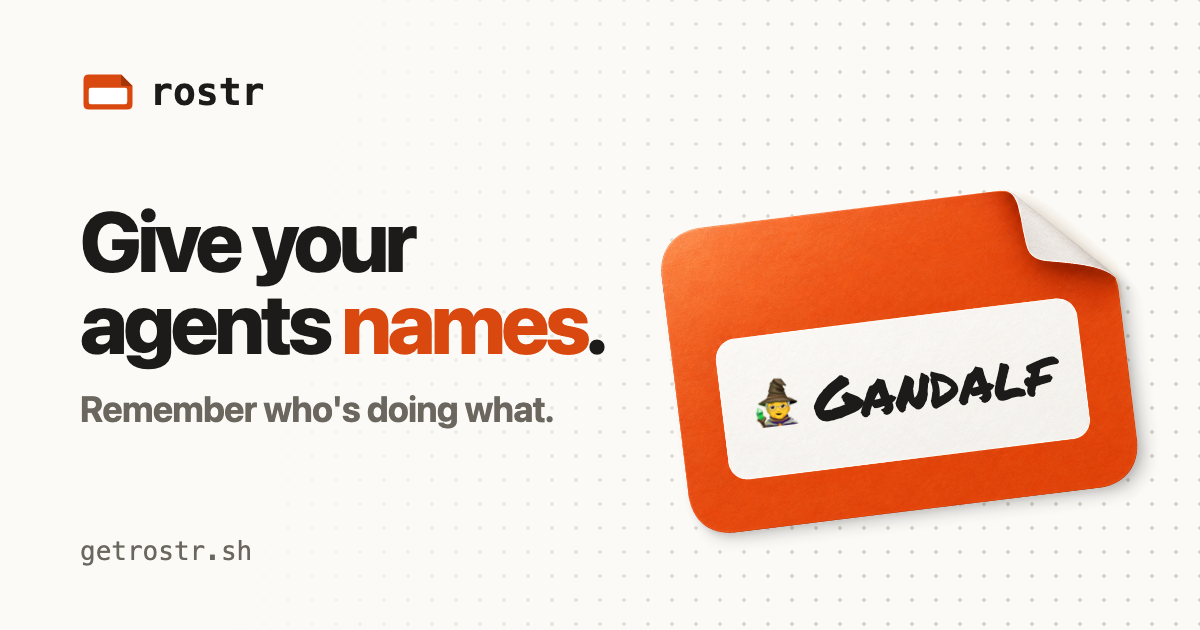
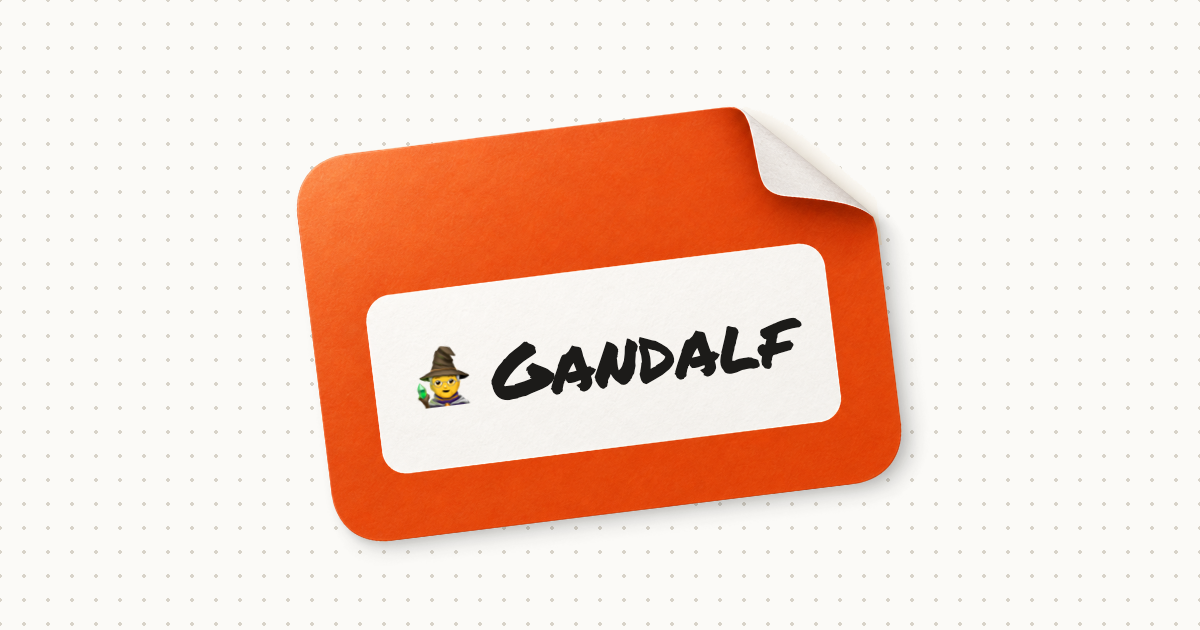
Link preview is just the Gandalf name tag on the dot grid

diff --git a/site/og/og.html b/site/og/og.html
@@ -9,44 +9,25 @@
     <link href="https://fonts.googleapis.com/css2?family=Permanent+Marker&display=block" rel="stylesheet" />
     <style>
       * { box-sizing: border-box; margin: 0; }
-      body {
-        width: 1200px; height: 630px; overflow: hidden; position: relative;
-        background: #fbfaf7; color: #1c1b19;
-        font-family: -apple-system, "SF Pro Display", system-ui, sans-serif;
-      }
+      body { width: 1200px; height: 630px; overflow: hidden; position: relative; background: #fbfaf7; }
       .dots {
         position: absolute; inset: 0;
         background-image: radial-gradient(circle, #d8d3c9 1.6px, transparent 1.8px);
         background-size: 24px 24px; background-position: 12px 12px;
-        -webkit-mask-image: linear-gradient(100deg, transparent 25%, #000 70%);
       }
-      .mono { font-family: "SF Mono", Menlo, monospace; }
-      .brand { position: absolute; top: 64px; left: 80px; display: flex; align-items: center; gap: 14px; font-size: 38px; font-weight: 700; }
-      .brand img { width: 56px; }
-      .url { position: absolute; bottom: 64px; left: 80px; font-size: 26px; color: #6b675f; }
-      .copy { position: absolute; left: 80px; top: 200px; width: 560px; }
-      h1 { font-size: 84px; font-weight: 800; letter-spacing: -0.045em; line-height: 0.98; }
-      h1 span { color: #d9480f; }
-      p { margin-top: 22px; font-size: 36px; font-weight: 700; letter-spacing: -0.02em; color: #6b675f; }
-      .tag { position: absolute; right: 40px; top: 105px; width: 520px; height: 520px; transform: rotate(-7deg); }
+      .tag { position: absolute; left: 50%; top: 50%; width: 660px; height: 660px; translate: -50% -48%; rotate: -7deg; }
       .tag img { width: 100%; }
       /* Sits over the tag image's white name area */
       .name {
         position: absolute; left: 14.9%; width: 69.9%; top: 40.9%; height: 27.2%;
         display: flex; align-items: center; justify-content: center; white-space: nowrap;
-        font-family: "Permanent Marker"; font-size: 60px;
+        font-family: "Permanent Marker"; font-size: 76px; color: #1c1b19;
       }
-      .name .emoji { font-family: "Apple Color Emoji"; font-size: 0.82em; margin-right: 12px; }
+      .name .emoji { font-family: "Apple Color Emoji"; font-size: 0.82em; margin-right: 16px; }
     </style>
   </head>
   <body>
     <div class="dots"></div>
-    <div class="brand mono"><img src="../public/favicon.svg" />rostr</div>
-    <div class="copy">
-      <h1>Give your agents <span>names</span>.</h1>
-      <p>Remember who's doing what.</p>
-    </div>
-    <div class="url mono">getrostr.sh</div>
     <div class="tag">
       <img src="tag.png" />
       <div class="name"><span class="emoji">🧙</span>Gandalf</div>
